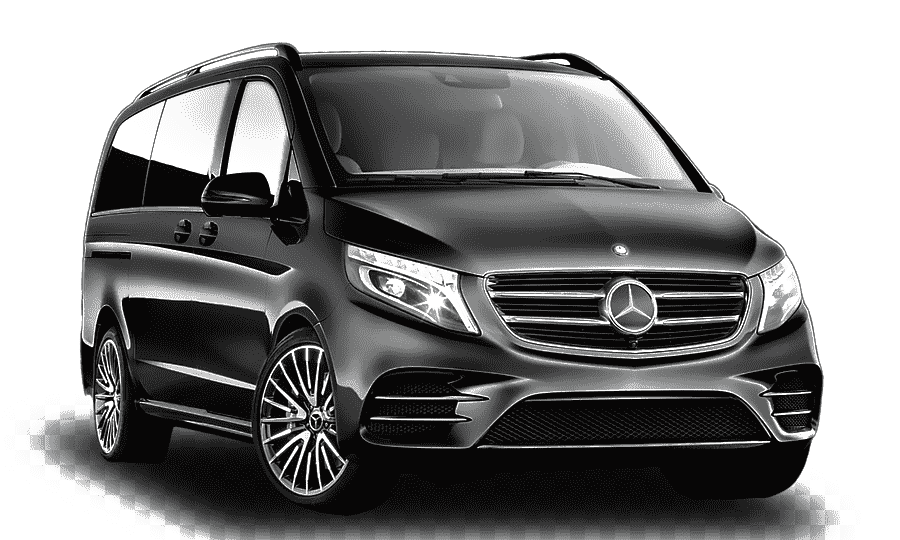
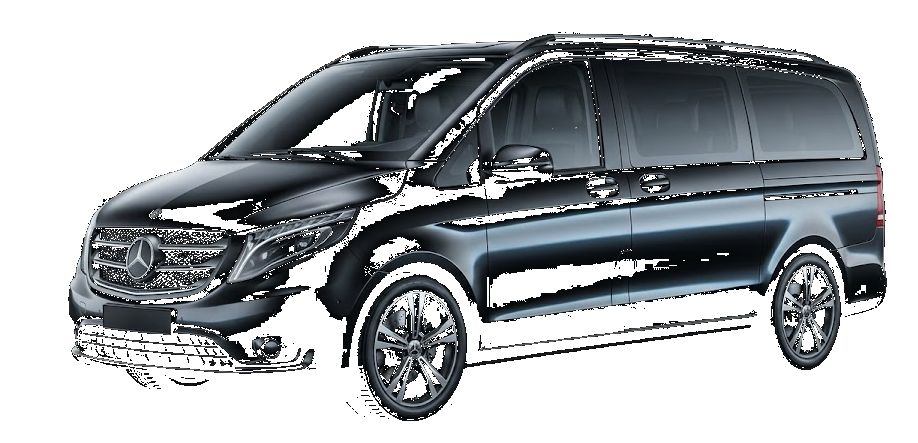
feat(van): image Mercedes V-Class noir côté — fond transparent, intégration parfaite

diff --git a/noir-argente.html b/noir-argente.html
@@ -150,12 +150,7 @@
       opacity: 0; animation: fadeIn 1.4s ease 0.6s forwards;
       padding: 40px 20px;
     }
-    .hero-van {
-      width: 100%; max-width: 700px; height: auto; display: block;
-      filter: drop-shadow(0 24px 60px rgba(0,0,0,0.9));
-      -webkit-mask-image: radial-gradient(ellipse 88% 92% at 54% 48%, black 55%, transparent 88%);
-      mask-image: radial-gradient(ellipse 88% 92% at 54% 48%, black 55%, transparent 88%);
-    }
+    .hero-van { width: 100%; max-width: 760px; height: auto; display: block; }
     @keyframes fadeUp { from { opacity:0; transform:translateY(20px); } to { opacity:1; transform:translateY(0); } }
     @keyframes fadeIn { from { opacity:0; } to { opacity:1; } }
     @media (max-width: 900px) {
@@ -200,12 +195,7 @@
     .fleet-title { font-size: clamp(2rem, 5vw, 4rem); font-weight: 800; letter-spacing: 0.08em; text-transform: uppercase; line-height: 1; }
     .fleet-title span { display: block; font-size: 0.38em; font-weight: 300; letter-spacing: 0.3em; color: var(--s400); margin-top: 10px; }
     .fleet-van-wrap { width: 100%; position: relative; }
-    .fleet-img {
-      display: block; width: 100%; height: 520px; object-fit: contain; object-position: center;
-      filter: drop-shadow(0 30px 80px rgba(0,0,0,0.9));
-      -webkit-mask-image: radial-gradient(ellipse 88% 92% at 50% 48%, black 55%, transparent 88%);
-      mask-image: radial-gradient(ellipse 88% 92% at 50% 48%, black 55%, transparent 88%);
-    }
+    .fleet-img { display: block; width: 100%; max-height: 480px; object-fit: contain; object-position: center; }
     .fleet-specs { display: grid; grid-template-columns: repeat(6, 1fr); gap: 1px; background: var(--bd); border-top: 1px solid var(--bd); }
     .fleet-spec { background: var(--bg2); padding: 22px 18px; text-align: center; }
     .fleet-spec-num {
@@ -215,7 +205,7 @@
       background-clip: text;
     }
     .fleet-spec-label { font-size: 8px; font-weight: 500; letter-spacing: 0.22em; text-transform: uppercase; color: var(--s400); margin-top: 6px; display: block; }
-    @media (max-width: 900px) { .fleet-specs { grid-template-columns: repeat(3, 1fr); } .fleet-img { height: 320px; } }
+    @media (max-width: 900px) { .fleet-specs { grid-template-columns: repeat(3, 1fr); } .fleet-img { max-height: 240px; } }
     @media (max-width: 500px) { .fleet-specs { grid-template-columns: repeat(2, 1fr); } }
 
     /* ══════════════════════════════════════════════
